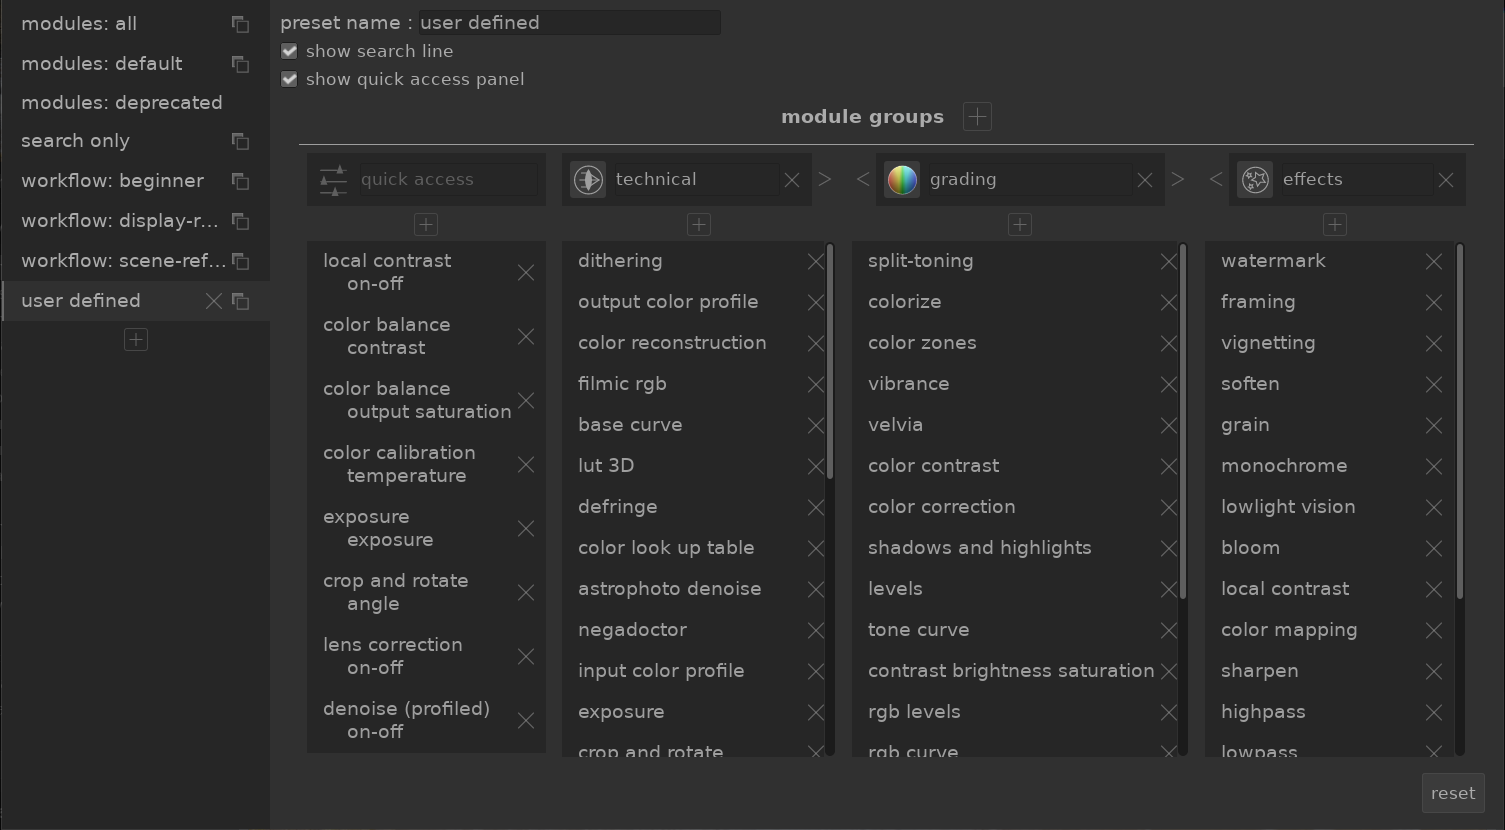
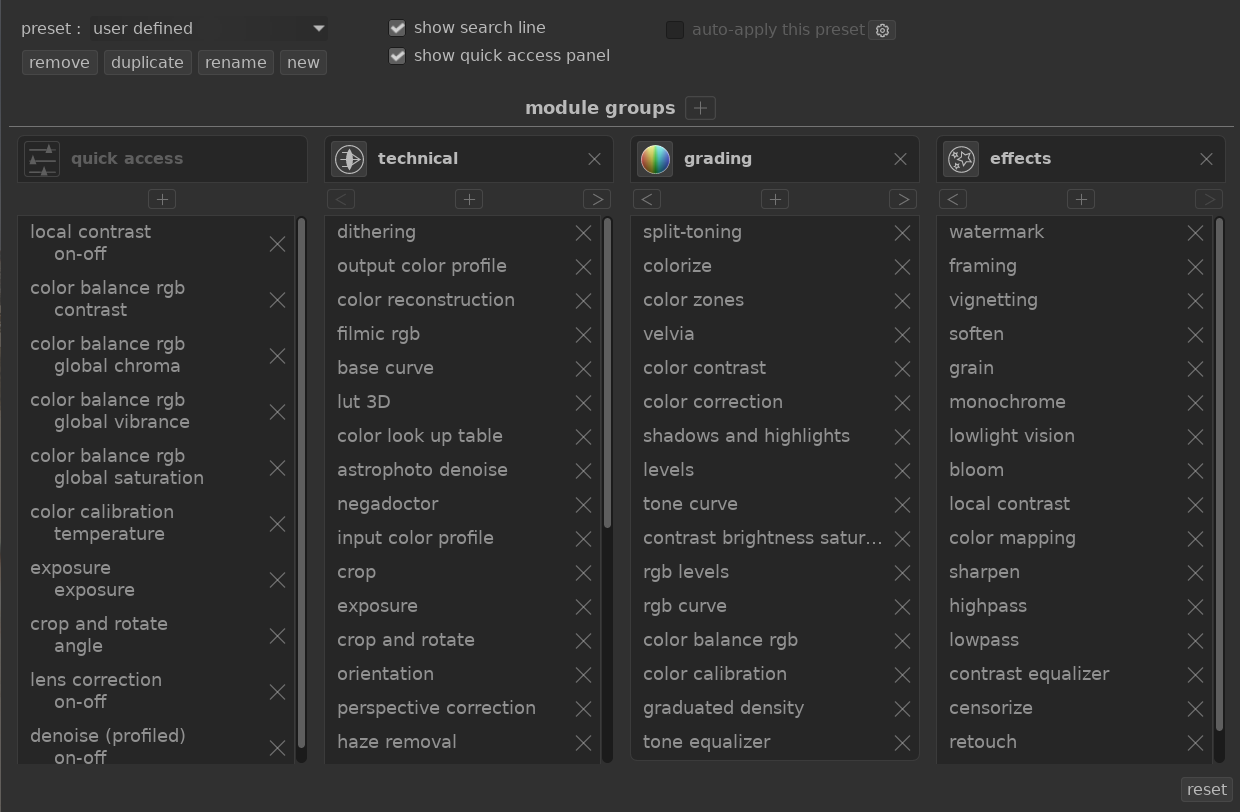
manage-module-layouts: document UI changes

diff --git a/content/darkroom/organization/manage-module-layouts.md b/content/darkroom/organization/manage-module-layouts.md
@@ -10,65 +10,62 @@ Manage the layout and grouping of processing modules and the quick access panel.
 
 ![manage module layouts](./manage-module-layouts/manage-module-layouts.png#w100)
 
-This maintenance screen can be accessed from the _presets_ menu beside the module search box or module group icons (below the histogram in the darkroom view).
+This maintenance screen can be accessed from the _presets_ menu beside the module search box or module group icons (below the histogram in the darkroom view). Ctrl+click on the preset menu to open this screen directly.
+
+Settings are automatically saved when you exit the screen. Click _reset_ to abandon any changes made in the current session.
 
 # module controls
 
-## preset list (left panel)
+## global controls
 
-The left-hand panel lists the currently-defined module layout presets. Those at the top of the list are fixed and cannot be altered. User-defined presets are placed at the bottom of the list.
+The following global controls are available in the top panel of the screen.
 
-create
-: To create a new preset, populated with a minimal list of basic modules, click on the + button at the bottom of the left-hand panel. Alternatively click on the _duplicate_ button to the right of one of the existing module presets to copy that preset to a new one. The above screenshot shows a new preset named "user defined" which has been created by duplicating the "modules: default" preset.
+preset
+: Select an existing module group preset.
 
-delete
-: Delete a user-defined preset with the X button.
+remove
+: Remove the current preset (user-defined presets only).
+
+duplicate
+: Duplicate the current preset with a new name. The above screenshot shows a new preset named "user defined", which has been created by duplicating the "modules: default" preset.
 
 rename
-: Rename a preset using the text entry box at the top of the right-hand panel. Right-click to bring up a menu which can be used to copy, paste, select all, delete or insert an emoji)
+: Rename the current preset (user-defined presets only). Right-click to bring up a menu that can be used to copy, paste, select all, delete or insert an emoji).
 
-## preset settings (right panel)
-
-Change the settings for the selected preset
-
-### global controls
-
-At the top of the right panel, the following options can be set
-
-preset name
-: Choose a name for your preset.
+new
+: Create a new preset with a minimal list of modules.
 
 show search line
 : Choose whether to display the search bar below the module group icons
 
 show quick access panel
-: Choose whether to display the quick access panel. If checked, a new entry will appear in the bottom-right panel.
+: Choose whether to display the quick access panel. If checked, a new entry will appear in the bottom-right panel to allow you to add/remove widgets.
 
-## quick access & module groups
+auto-apply this preset
+: Module group presets can be automatically applied based on the type of image being worked on. The check box indicates whether this preset currently has any auto-apply rules. Click on the gear icon to amend the auto-apply settings. See [presets](../processing-modules/presets.md) for details.
 
-The bottom section of the right-hand panel allows you to create and amend module groups for the selected preset.
+## module groups
+
+The bottom panel of the screen allows you to alter the quick access panel and module groups for the selected preset (user-defined presets only).
 
 add a group
-: Click on the + sign beside the "module groups" header to add a new group. 
+: Click on the + sign beside the "module groups" label to add a new group. 
 
 remove a group
-: Remove a group by clicking on the X button beside the header of that module group.
+: Remove a group by clicking on the X button beside the group name.
 
 add a module/widget
-: Add a module to a group, or a widget to the quick access panel, by clicking the + sign below the group name. Select the required module/widget from the list that appears. 
+: Add a module to a group, or a widget to the quick access panel, by clicking the + sign below the group name. Select the required module/widget from the displayed list. 
 
 remove a module/widget
 : Remove a module from a group, or a widget from the quick access panel, by clicking the X beside the module/widget name.
 
 change a group's icon
-: Change the icon assigned to a group by clicking on the existing group icon and selecting a new one from the drop-down list.
+: Change the icon assigned to a group by clicking on the existing group icon and selecting a new one from the displayed list.
 
 change the group order
-: Change order the groups are displayed in by clicking on the < and > buttons beside the group headers.
+: Change order in which the groups are displayed by clicking on the < and > buttons below the group names.
 
 rename a group
-: Rename a module group using the text entry box at the top of the module list. Right-click to bring up a menu which can be used to copy, paste, select all, delete or insert an emoji)
-
-Settings will be automatically saved when you exit the screen. Click _reset_ to reset the settings to the start of your editing session.
-
+: Rename a module group by clicking on the group name and typing. Right-click to bring up a menu that can be used to copy, paste, select all, delete or insert an emoji)
 
